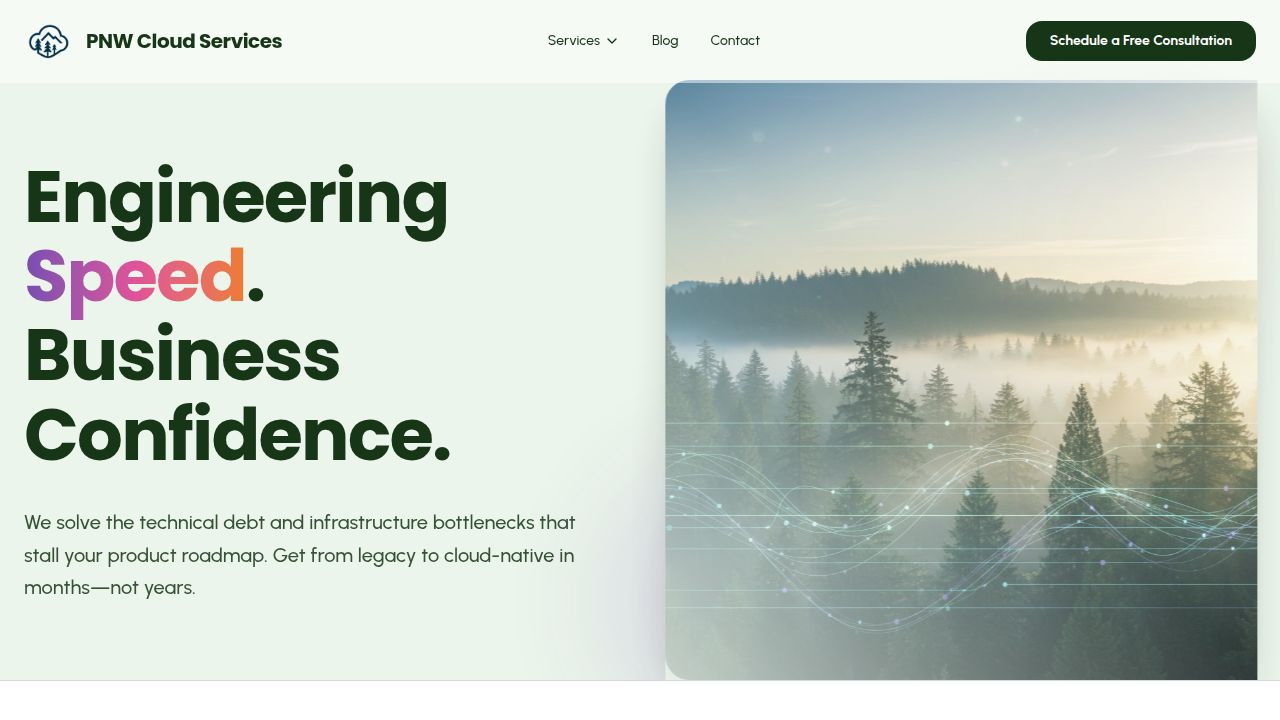
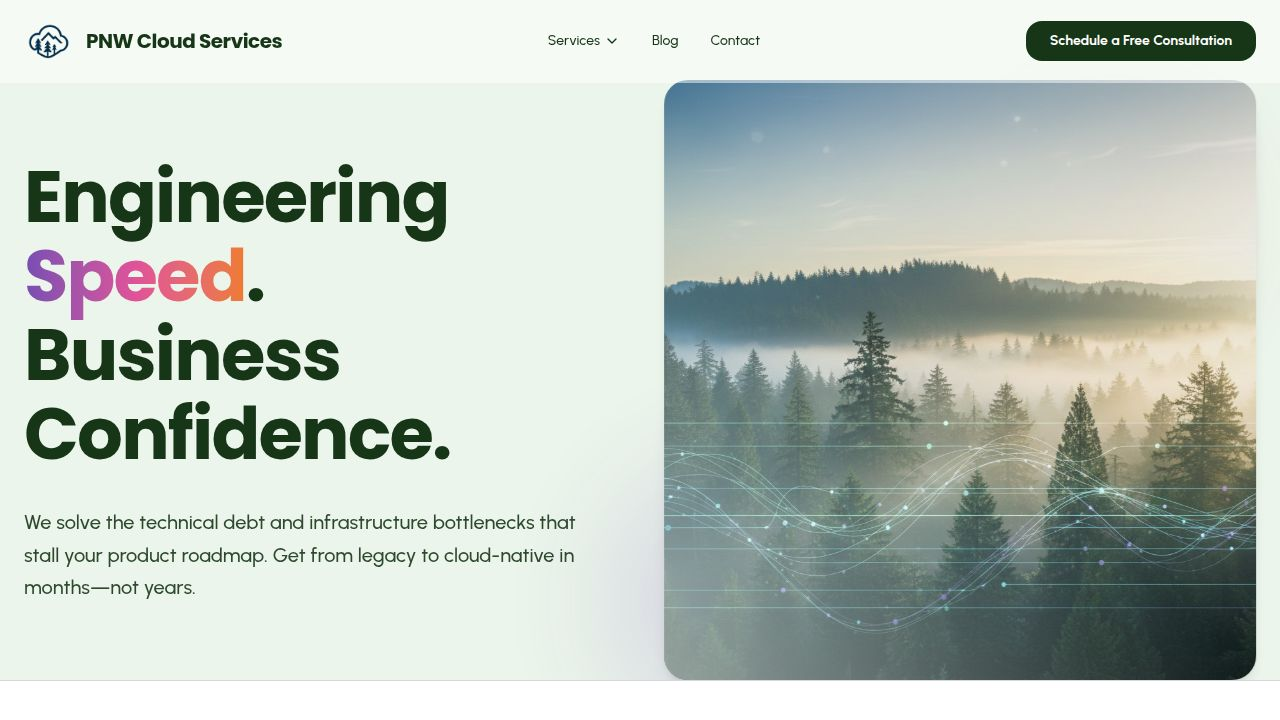
Improve hero image framing for a polished appearance
Update the hero component by wrapping the image in a container with rounded corners and overflow-hidden, applying a subtle overlay for polish.

Replit-Commit-Author: Agent
Replit-Commit-Session-Id: ad886bd7-96e1-431d-a391-7352132ca2d8
Replit-Commit-Checkpoint-Type: full_checkpoint
Replit-Commit-Event-Id: ec5d126a-3987-408b-b6ab-7762a0a97c9b
Replit-Commit-Screenshot-Url: https://storage.googleapis.com/screenshot-production-us-central1/e0d0b5d5-0989-45e9-a5cc-da82de3c706e/ad886bd7-96e1-431d-a391-7352132ca2d8/cHlFHOM
Replit-Helium-Checkpoint-Created: true

diff --git a/client/src/components/home/hero.tsx b/client/src/components/home/hero.tsx
@@ -17,12 +17,14 @@ export function Hero() {
         </div>
 
         <div className="relative h-[600px] w-full hidden lg:block animate-in slide-in-from-right-5 duration-1000 delay-200 fade-in">
-           <div className="absolute inset-0 bg-gradient-to-tr from-background/80 via-transparent to-transparent z-10"></div>
-           <img 
-            src={heroImage} 
-            alt="Enterprise Platform Architecture" 
-            className="w-full h-full object-cover rounded-l-3xl shadow-2xl opacity-90"
-          />
+          <div className="relative rounded-3xl overflow-hidden shadow-lg h-full w-full">
+            <img 
+              src={heroImage} 
+              alt="Enterprise Platform Architecture" 
+              className="w-full h-full object-cover block"
+            />
+            <div className="absolute inset-0 bg-gradient-to-tr from-background/60 via-transparent to-black/10 pointer-events-none" />
+          </div>
           <div className="absolute -bottom-12 -left-12 w-64 h-64 bg-accent-purple/20 rounded-full blur-3xl -z-10"></div>
           <div className="absolute top-12 right-12 w-48 h-48 bg-accent-orange/20 rounded-full blur-3xl -z-10"></div>
         </div>
